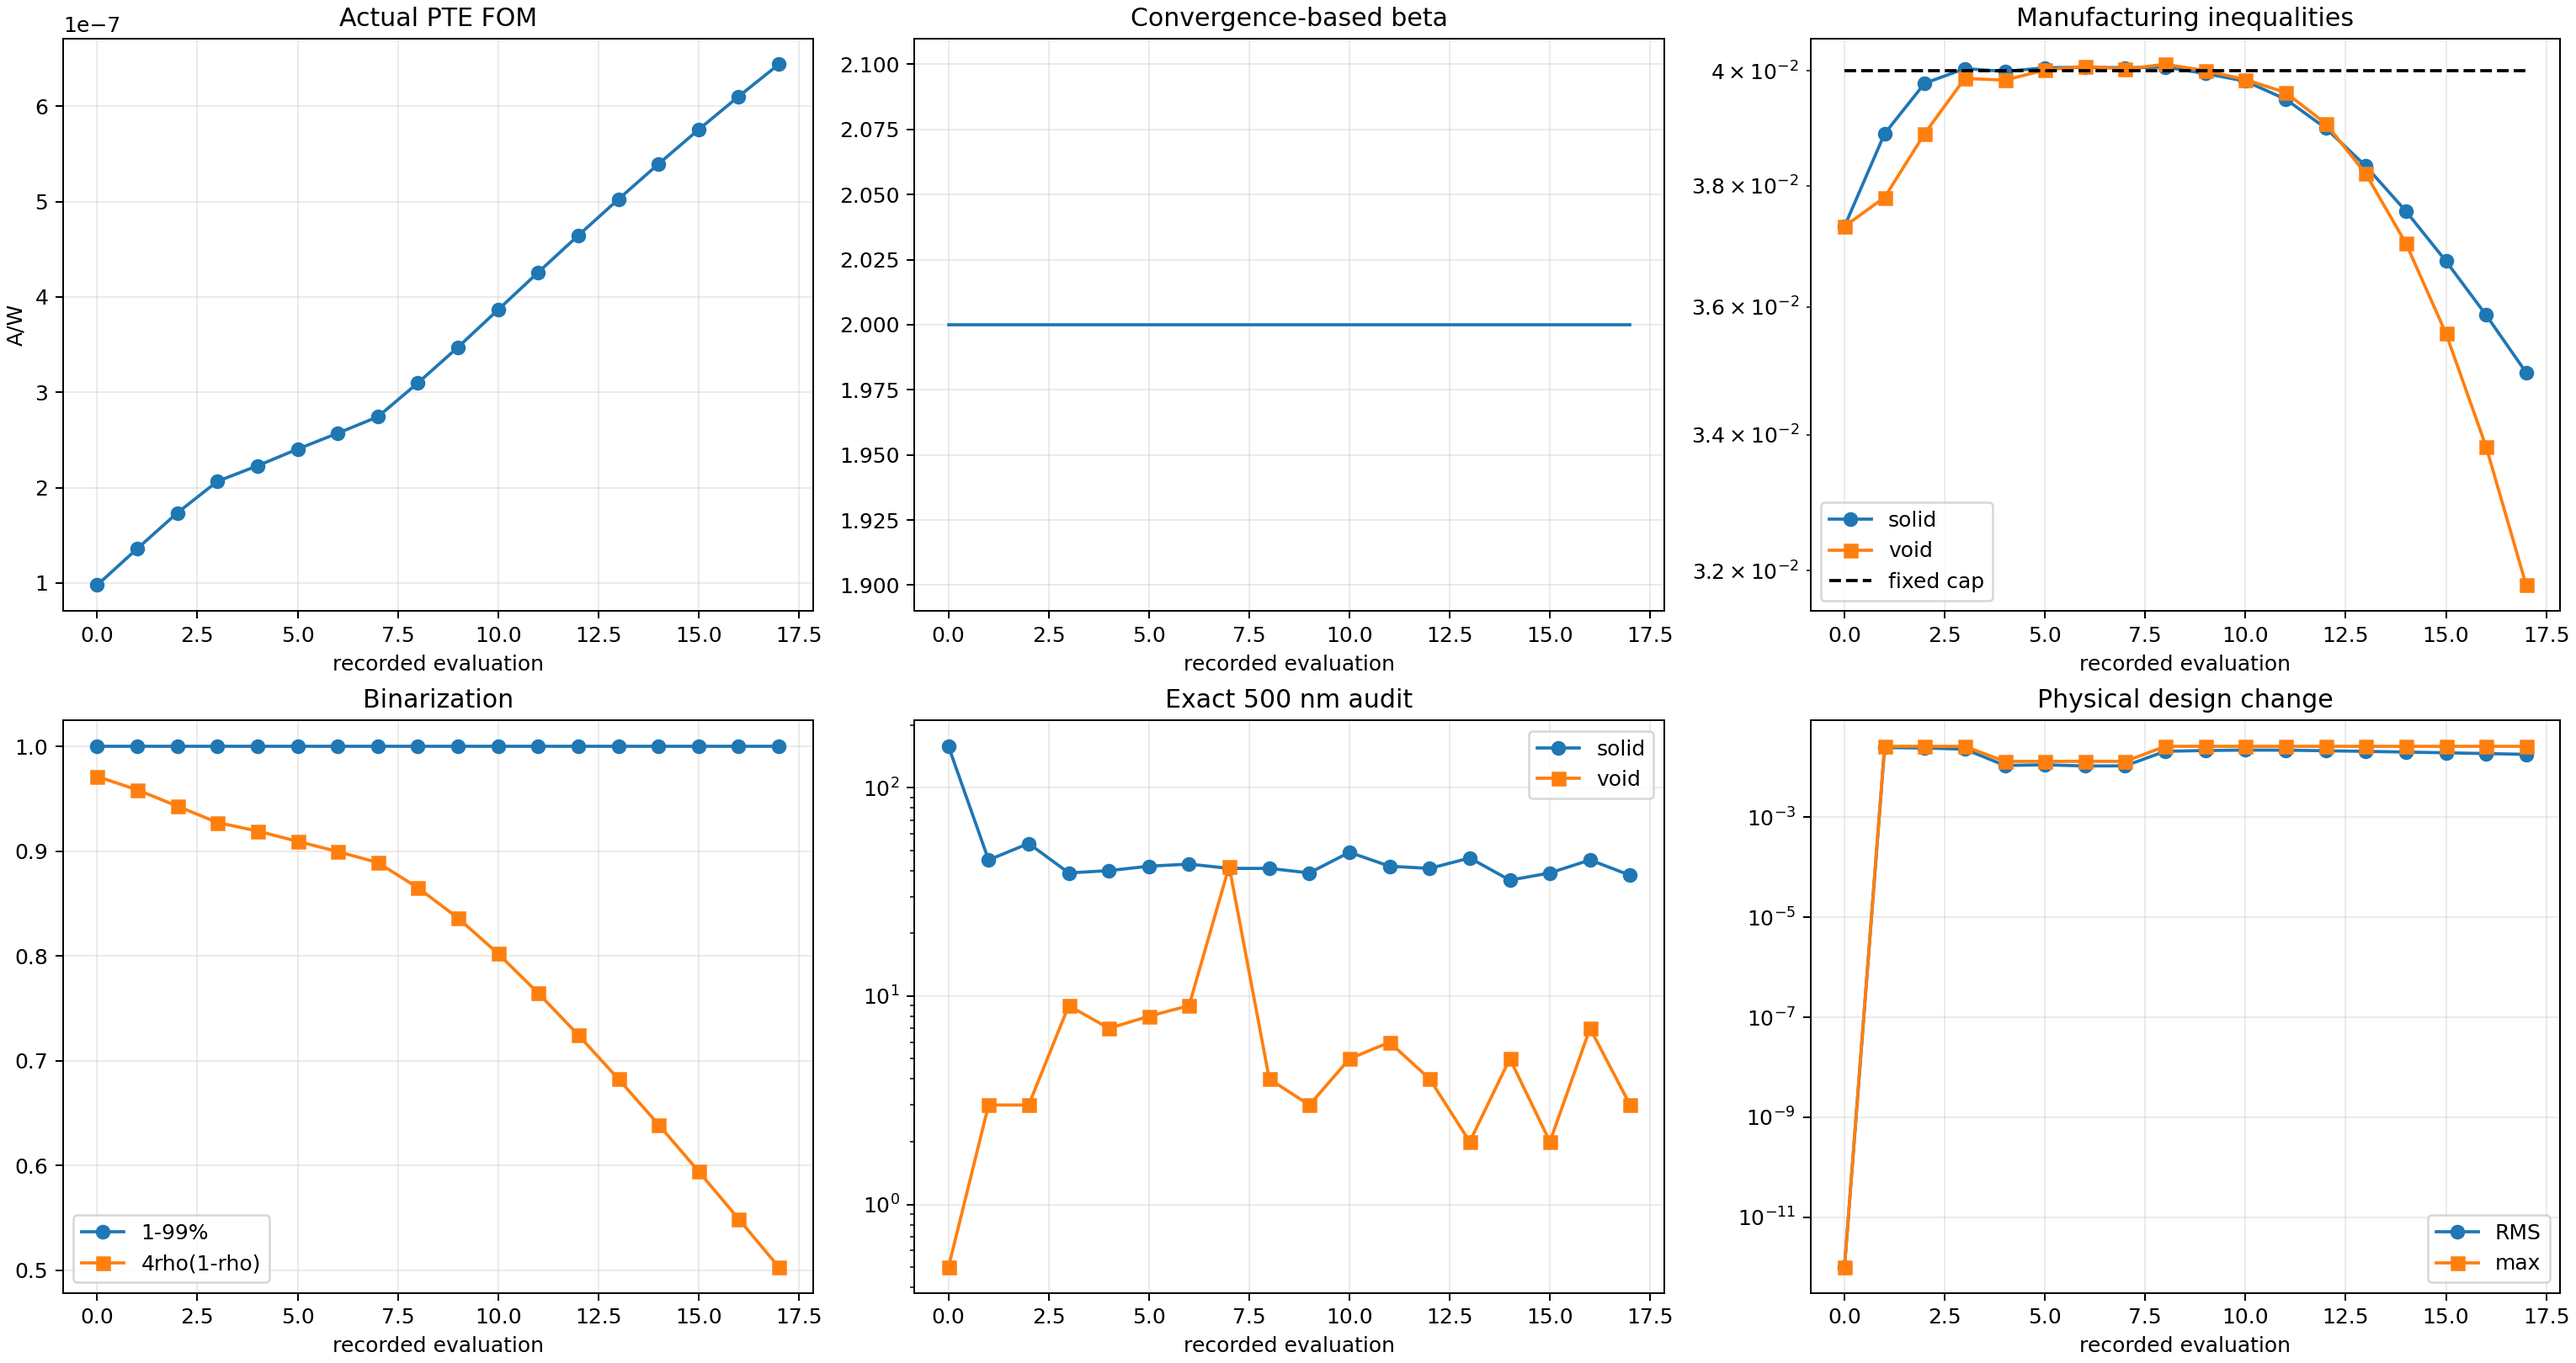
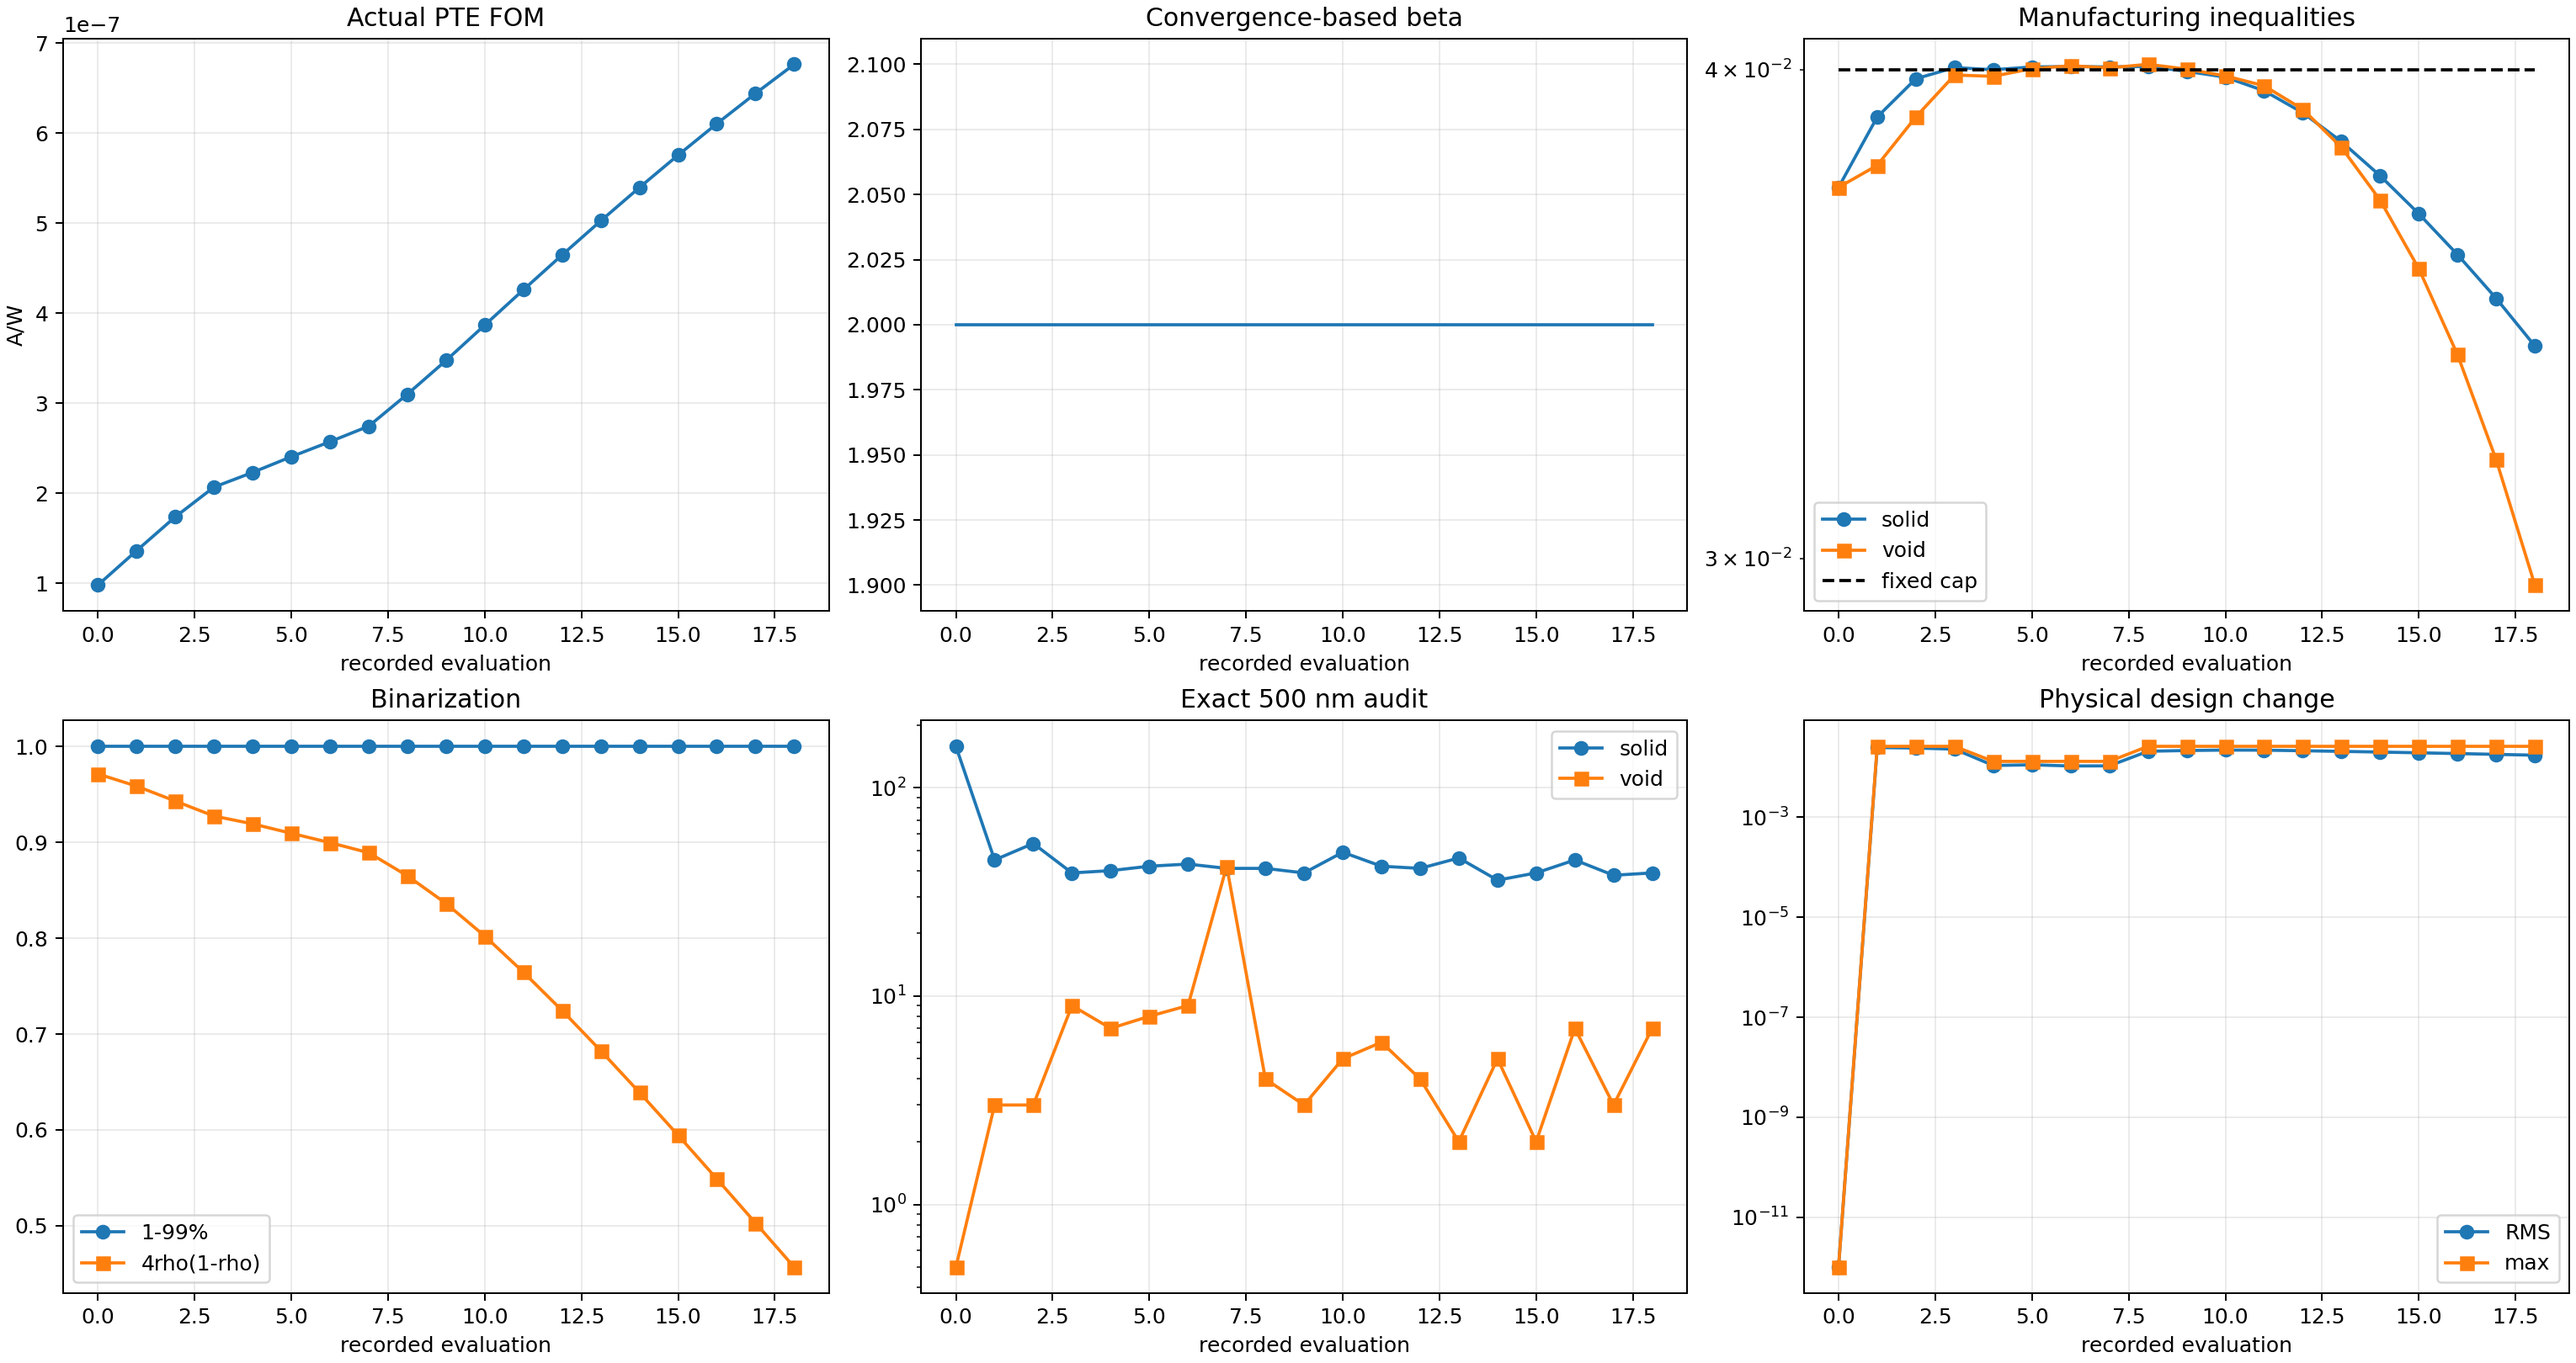
Record Run 003 run003_b002_s018_g018_accepted_mma

diff --git a/photothermal_pte/optimization_runs/run_003_gaussian10_w8p5_current_max_converged/results/OPTIMIZATION_REPORT.md b/photothermal_pte/optimization_runs/run_003_gaussian10_w8p5_current_max_converged/results/OPTIMIZATION_REPORT.md
@@ -2,10 +2,10 @@
 
 Status: `RUNNING_CONVERGENCE_BASED_CONSTRAINED_BETA_CONTINUATION`
 
-Current stage: beta=2, accepted stage iteration=17, global iteration=17.
+Current stage: beta=2, accepted stage iteration=18, global iteration=18.
 
-Actual FOM: `6.440182520819e-07 A/W`. Fixed-cap solid/void constraints: `3.495886e-02` / `3.179159e-02` with cap `4.000000e-02`.
+Actual FOM: `6.763692796289e-07 A/W`. Fixed-cap solid/void constraints: `3.399285e-02` / `2.953086e-02` with cap `4.000000e-02`.
 
-Exact 500 nm bad cells: solid `38`, void `3`. Stage convergence: `False` (recent FOM/density changes have not plateaued).
+Exact 500 nm bad cells: solid `39`, void `7`. Stage convergence: `False` (recent FOM/density changes have not plateaued).
 
 Beta is promoted only after fixed-inequality feasibility and a four-update FOM/design plateau; it is never promoted after one nominal update.
